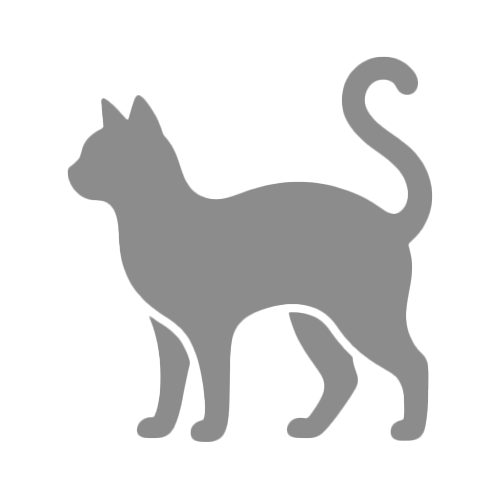
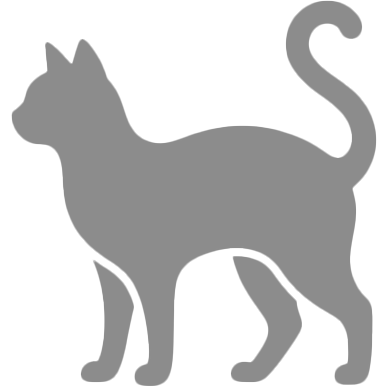
feat: 添加眨眼动画猫咪头像和自定义品牌图标
- Header 和消息中添加 JavaScript 控制的眨眼动画
- 使用自定义猫咪图片作为活动栏图标
- 优化图标显示大小，去除多余空白

Changed region(s): [[0.0309, 0.0, 0.9897, 1.0]]

diff --git a/media/webview.html b/media/webview.html
@@ -733,7 +733,7 @@
 
 <!-- Header -->
 <div id="header" style="position: relative;">
-  <div class="avatar">🐱</div>
+  <div class="avatar" id="header-avatar"></div>
   <div>
     <div class="title">小虾米</div>
     <div class="subtitle">AI 助手</div>
@@ -848,6 +848,105 @@
 
 <script>
 const vscode = acquireVsCodeApi();
+
+// ── 带眨眼动画的猫咪 SVG（用于 header）─
+const CAT_AVATAR_SVG = `
+<svg xmlns="http://www.w3.org/2000/svg" viewBox="0 0 100 100" width="100%" height="100%">
+  <defs>
+    <linearGradient id="bgGrad" x1="0%" y1="0%" x2="100%" y2="100%">
+      <stop offset="0%" style="stop-color:#1a1a2e"/>
+      <stop offset="100%" style="stop-color:#16213e"/>
+    </linearGradient>
+    <filter id="glow">
+      <feGaussianBlur stdDeviation="1.5" result="coloredBlur"/>
+      <feMerge>
+        <feMergeNode in="coloredBlur"/>
+        <feMergeNode in="SourceGraphic"/>
+      </feMerge>
+    </filter>
+  </defs>
+  <circle cx="50" cy="50" r="48" fill="url(#bgGrad)"/>
+  <path d="M 22 42 L 28 12 L 44 38 Z" fill="#0f0f23"/>
+  <path d="M 78 42 L 72 12 L 56 38 Z" fill="#0f0f23"/>
+  <path d="M 27 38 L 31 18 L 40 36 Z" fill="#ec4899" opacity="0.3"/>
+  <path d="M 73 38 L 69 18 L 60 36 Z" fill="#ec4899" opacity="0.3"/>
+  <ellipse cx="50" cy="55" rx="32" ry="28" fill="#0f0f23"/>
+  <g>
+    <ellipse id="eye1" cx="38" cy="52" rx="5" ry="6" fill="#a855f7"/>
+    <circle id="highlight1" cx="39" cy="50" r="2" fill="#fff" opacity="0.9"/>
+    <ellipse id="eye2" cx="62" cy="52" rx="5" ry="6" fill="#a855f7"/>
+    <circle id="highlight2" cx="63" cy="50" r="2" fill="#fff" opacity="0.9"/>
+  </g>
+  <path d="M 47 62 L 50 66 L 53 62 Z" fill="#ec4899"/>
+  <path d="M 50 66 Q 44 71 40 68" stroke="#0f0f23" stroke-width="1.8" fill="none" stroke-linecap="round"/>
+  <path d="M 50 66 Q 56 71 60 68" stroke="#0f0f23" stroke-width="1.8" fill="none" stroke-linecap="round"/>
+  <g stroke="#0f0f23" stroke-width="0.8" opacity="0.5">
+    <line x1="28" y1="60" x2="12" y2="58"/>
+    <line x1="28" y1="64" x2="12" y2="65"/>
+    <line x1="28" y1="68" x2="12" y2="72"/>
+    <line x1="72" y1="60" x2="88" y2="58"/>
+    <line x1="72" y1="64" x2="88" y2="65"/>
+    <line x1="72" y1="68" x2="88" y2="72"/>
+  </g>
+  <circle cx="30" cy="62" r="4" fill="#ec4899" opacity="0.15"/>
+  <circle cx="70" cy="62" r="4" fill="#ec4899" opacity="0.15"/>
+</svg>`;
+
+// ── 静态猫咪 SVG（用于消息中，不带 ID）─
+const CAT_AVATAR_STATIC = `
+<svg xmlns="http://www.w3.org/2000/svg" viewBox="0 0 100 100" width="100%" height="100%">
+  <defs>
+    <linearGradient id="bgGradMsg" x1="0%" y1="0%" x2="100%" y2="100%">
+      <stop offset="0%" style="stop-color:#1a1a2e"/>
+      <stop offset="100%" style="stop-color:#16213e"/>
+    </linearGradient>
+  </defs>
+  <circle cx="50" cy="50" r="48" fill="url(#bgGradMsg)"/>
+  <path d="M 22 42 L 28 12 L 44 38 Z" fill="#0f0f23"/>
+  <path d="M 78 42 L 72 12 L 56 38 Z" fill="#0f0f23"/>
+  <path d="M 27 38 L 31 18 L 40 36 Z" fill="#ec4899" opacity="0.3"/>
+  <path d="M 73 38 L 69 18 L 60 36 Z" fill="#ec4899" opacity="0.3"/>
+  <ellipse cx="50" cy="55" rx="32" ry="28" fill="#0f0f23"/>
+  <ellipse cx="38" cy="52" rx="5" ry="6" fill="#a855f7"/>
+  <circle cx="39" cy="50" r="2" fill="#fff" opacity="0.9"/>
+  <ellipse cx="62" cy="52" rx="5" ry="6" fill="#a855f7"/>
+  <circle cx="63" cy="50" r="2" fill="#fff" opacity="0.9"/>
+  <path d="M 47 62 L 50 66 L 53 62 Z" fill="#ec4899"/>
+  <path d="M 50 66 Q 44 71 40 68" stroke="#0f0f23" stroke-width="1.8" fill="none" stroke-linecap="round"/>
+  <path d="M 50 66 Q 56 71 60 68" stroke="#0f0f23" stroke-width="1.8" fill="none" stroke-linecap="round"/>
+  <g stroke="#0f0f23" stroke-width="0.8" opacity="0.5">
+    <line x1="28" y1="60" x2="12" y2="58"/>
+    <line x1="28" y1="64" x2="12" y2="65"/>
+    <line x1="28" y1="68" x2="12" y2="72"/>
+    <line x1="72" y1="60" x2="88" y2="58"/>
+    <line x1="72" y1="64" x2="88" y2="65"/>
+    <line x1="72" y1="68" x2="88" y2="72"/>
+  </g>
+  <circle cx="30" cy="62" r="4" fill="#ec4899" opacity="0.15"/>
+  <circle cx="70" cy="62" r="4" fill="#ec4899" opacity="0.15"/>
+</svg>`;
+
+// ── 眨眼动画 ──
+function blinkEyes() {
+  const eye1 = document.getElementById('eye1');
+  const eye2 = document.getElementById('eye2');
+  const highlight1 = document.getElementById('highlight1');
+  const highlight2 = document.getElementById('highlight2');
+  if (!eye1) return;
+  eye1.setAttribute('ry', '1');
+  eye2.setAttribute('ry', '1');
+  highlight1.setAttribute('opacity', '0');
+  highlight2.setAttribute('opacity', '0');
+  setTimeout(() => {
+    eye1.setAttribute('ry', '6');
+    eye2.setAttribute('ry', '6');
+    highlight1.setAttribute('opacity', '0.9');
+    highlight2.setAttribute('opacity', '0.9');
+    const nextBlink = 2000 + Math.random() * 2000;
+    setTimeout(blinkEyes, nextBlink);
+  }, 150);
+}
+setTimeout(blinkEyes, 1000);
 
 // ── State ──
 const SYSTEM_PROMPT = `你是小虾米，星空的专属AI助手。
@@ -2363,7 +2462,7 @@ function addAIMessage() {
   content.className = 'msg-content';
   content.appendChild(bubble);
   content.appendChild(meta);
-  div.innerHTML = '<div class="msg-avatar">🐱</div>';
+  div.innerHTML = '<div class="msg-avatar">⭐</div>';
   div.appendChild(content);
   msgs.appendChild(div);
   scrollBottom();
@@ -2585,11 +2684,14 @@ function addAIMessageStatic(text) {
   const msgs = document.getElementById('messages');
   const div = document.createElement('div');
   div.className = 'msg ai';
-  div.innerHTML = `
-    <div class="msg-avatar">🐱</div>
-    <div class="msg-content">
-      <div class="msg-bubble">${renderMarkdown(text)}</div>
-    </div>`;
+  const avatarDiv = document.createElement('div');
+  avatarDiv.className = 'msg-avatar';
+  avatarDiv.innerHTML = CAT_AVATAR_STATIC;
+  div.appendChild(avatarDiv);
+  const contentDiv = document.createElement('div');
+  contentDiv.className = 'msg-content';
+  contentDiv.innerHTML = `<div class="msg-bubble">${renderMarkdown(text)}</div>`;
+  div.appendChild(contentDiv);
   msgs.appendChild(div);
 }
 
@@ -2725,6 +2827,9 @@ function addSystemHint(text) {
     renderDrawerList();
   }
 })();
+
+// ── 初始化 Header 头像 ──
+document.getElementById('header-avatar').innerHTML = CAT_AVATAR_SVG;
 </script>
 </body>
 </html>
